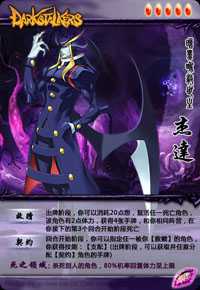
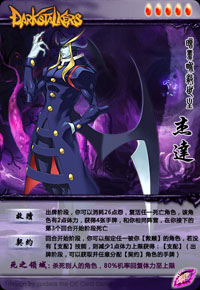
modify skills of cammy and jedah

Changed region(s): [[0.21, 0.7138, 0.99, 0.9]]

diff --git a/src/package/melee-ds.cpp b/src/package/melee-ds.cpp
@@ -2019,7 +2019,7 @@ JiushuCard::JiushuCard(){
 }
 
 void JiushuCard::use(Room *room, ServerPlayer *jedah, const QList<ServerPlayer *> &) const{
-    jedah->updateMp(-20);
+    jedah->updateMp(-26);
     
     ServerPlayer *dead = NULL;
     QStringList deadPlayersName;
@@ -2075,7 +2075,7 @@ public:
         QList<const Player *> players = jedah->parent()->findChildren<const Player *>();
         foreach(const Player *p, players){
             if(p->isDead())
-                return jedah->getMp()>=20;
+                return jedah->getMp()>=26;
         }
 
         return false;
@@ -2104,8 +2104,10 @@ bool QiyueCard::targetFilter(const QList<const Player *> &targets, const Player 
 
 void QiyueCard::use(Room *room, ServerPlayer *jedah, const QList<ServerPlayer *> &targets) const{
     room->setPlayerFlag(targets.first(), "jiushu_qiyue");
-    if(!jedah->hasSkill("zhipei"))
+    if(!jedah->hasSkill("zhipei")) {
+        room->loseMaxHp(jedah);
         room->acquireSkill(jedah, "zhipei");
+    }
 }
 
 class QiyueViewAsSkill: public ZeroCardViewAsSkill{
